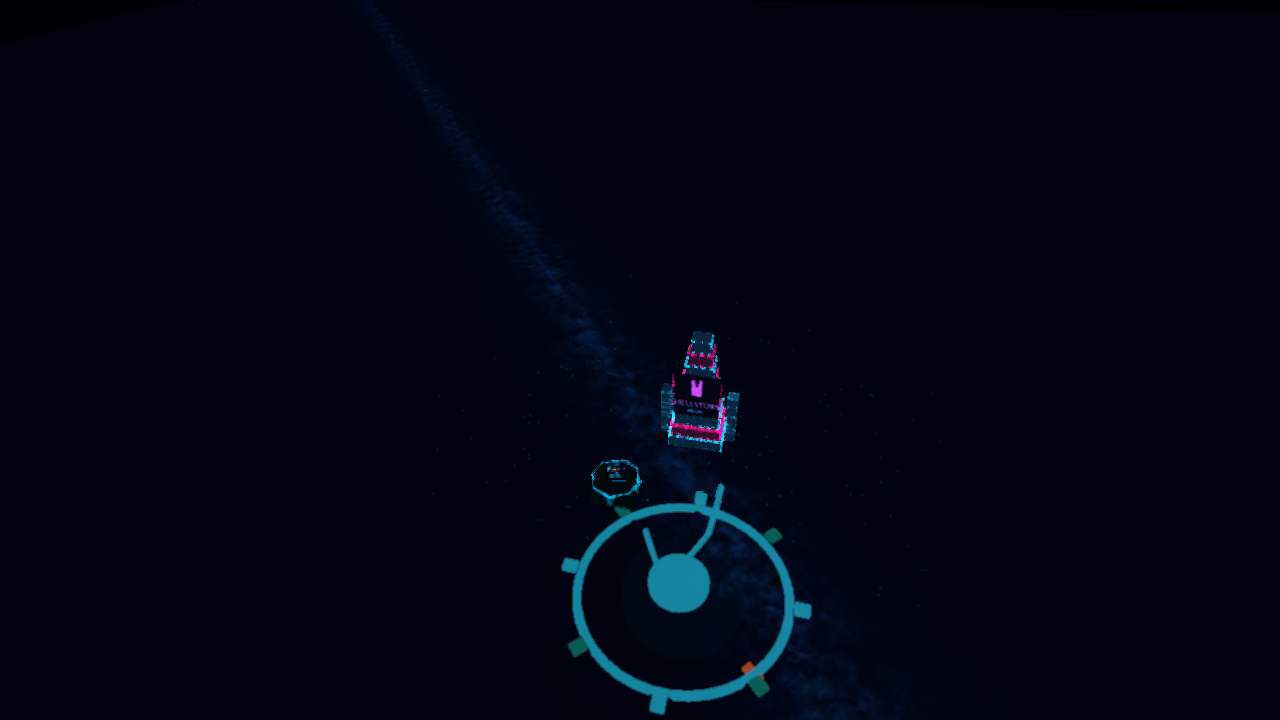
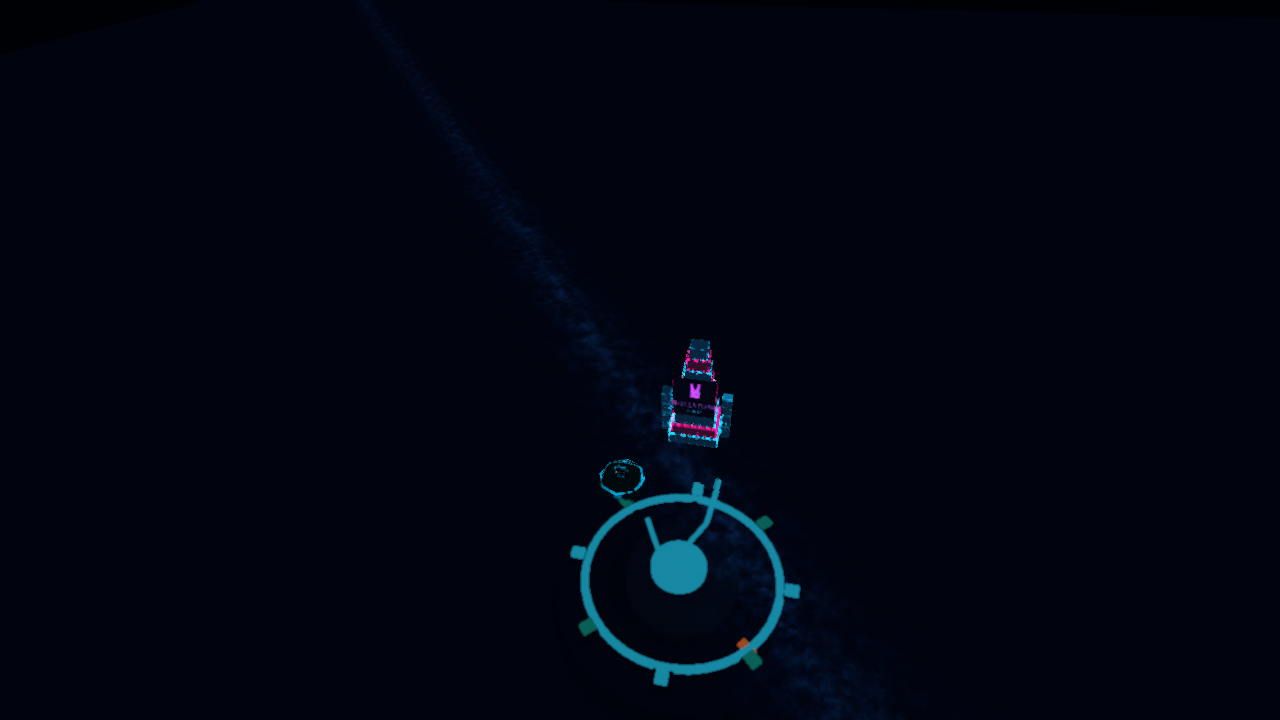
远征全息城市：入口悬停/点击反馈与 Esc 关闭时序修复
主人原话：「鼠标移动上去后，关卡的图标放大的感觉要更大一些，并且边框要有个流光出来。
鼠标挪开后就要复原。点击后要有个放大的弹性反馈。」「用 esc 关闭这个窗口，会有个延迟。
按下后要立刻播放关闭动画。」

**悬停放大**（src/ui/HologramCity3D.gd）
入口标记的世界比例与反馈强度从写死值抽成顶部常量：
MARKER_SCALE 0.09 / HOVER_SCALE **1.32**（原写死 1.09）/ PUNCH_SCALE 0.34 /
HOVER_RESPONSE 14.0 / PUNCH_DECAY 5.0 / BORDER_FLOW_SPEED 0.42 / BORDER_WIDTH 0.05。
悬停改用 _process 里按 1 − exp(−14·delta) 收敛的 _hover 数组，挪开即原路复原。
实机读数：静止 0.0902 → 悬停 0.1188，比值 **1.317**。

**边框流光**：四条独立边框线（线宽 0.032）改为顺时针四角连线并加粗到 **0.05**
（原宽度在近景下只有一两像素，流光看不出光带）；每条边按 segment / perimeter
写入 arc_span、按累计起点写入 flow_offset，新增 assets/art/ui/expedition_city/
hologram_frame.gdshader 用局部 VERTEX.z 归一化成沿线参数、按 0.42 圈/秒环绕。
常亮部分维持 ALBEDO + EMISSION = 3 × tint，与旧 _material(color, 2.0) 同当量，
**因此不悬停时外观不退化**。_line 返回值由 void 改为 MeshInstance3D
（原调用方沿用原写法不受影响）。

**点击弹性**：新增 punch_marker(index) 置满脉冲再按 5/s 衰减（峰值 = HOVER_SCALE
+ PUNCH_SCALE）。change_scene_to_file 会立刻接管画面、不留时间就只剩一帧脉冲，
故 _enter_level 改为设 _state = "entering" 与 PUNCH_HOLD = 0.18 秒倒计时，
到点由 _commit_departure() 执行原出发主体（整体搬移，出发链路一行未改）。

**Esc 延迟的根因（不是输入没送达，是进度映射被原样反向）**：
eased = smoothstep(0, 0.55, _progress) 在 _progress ∈ [0.55, 1] 被 clamp 到 1
（相机静止 **1.62s**）；deployment = clamp((_progress − 0.122727) / 0.65) 在
_progress > 0.772727 恒为 1（楼群静止 **0.82s**）。A/B 实测按下后 0.06s：
改动前 deploy 1.000000→1.000000、camera_moved 0.000000；
改动后 deploy 1.000000→0.970535、camera_moved 0.194507。
修法：request_close() 记录按下瞬间的 _progress / _city.deployment / 缓动值，
closing 改用关闭自身归一化进度 q：eased = 按下值 × q^1.35、
[…]

Changed region(s): [[0.4375, 0.6417, 0.6562, 1.0], [0.5, 0.4583, 0.5938, 0.6417]]

diff --git a/docs/v0.1/development/2026-10-09_expedition_holo_entry_feedback_and_close.md b/docs/v0.1/development/2026-10-09_expedition_holo_entry_feedback_and_close.md
@@ -1,0 +1,70 @@
+# 远征全息城市入口反馈与关闭时序
+
+日期：2026-10-09。工程版本：0.1.0。FeatureID：WORLD-ENTRY / BASE-FACILITY。
+来源：主人对远征情报室 3D 选关界面的两条调整要求。
+
+## 需求原话
+
+- 「鼠标移动上去后，关卡的图标放大的感觉要更大一些，并且边框要有个流光出来。鼠标挪开后就要复原。点击后要有个放大的弹性反馈。」
+- 「用 esc 关闭这个窗口，会有个延迟。按下后要立刻播放关闭动画。」
+
+## 一、悬停放大与边框流光
+
+标记的世界比例与反馈强度集中到 `HologramCity3D` 顶部常量：`MARKER_SCALE 0.09`、`HOVER_SCALE 1.32`（原硬编码 1.09）、`PUNCH_SCALE 0.34`、`HOVER_RESPONSE 14.0`、`PUNCH_DECAY 5.0`、`BORDER_FLOW_SPEED 0.42`、`BORDER_WIDTH 0.05`。`face_markers` 不再直接判 `selected`，改用 `_process` 里以 `lerpf(…, 1 - exp(-14·delta))` 收敛的 `_hover` 数组，挪开即原路复原。
+
+边框原来是四条各自独立的 `_line`（线宽 0.032）；改为顺时针四角连线，线宽提到 0.05 —— 原宽度在近景下只有一两像素，流光跑起来看不出光带。每条边按 `segment / perimeter` 写入 `arc_span`、按累计起点写入 `flow_offset`，四条合起来是一整圈相位连续的环流。新增 `hologram_frame.gdshader` 承担这套描边：常亮部分保持 `ALBEDO + EMISSION = 3 × tint`，与旧 `_material(color, 2.0)` 同当量，因此不悬停时外观不退化；`hover` 只抬高整体并叠加沿边跑动的拖尾亮头（`energy = 2.0 + 1.2 × hover + flow × 9.0`），光头约占周长三分之一并向后拖出长尾。
+
+`_line` 返回值由 `void` 改为 `MeshInstance3D`，其余调用方沿用原写法不受影响。
+
+## 二、点击弹性反馈
+
+新增 `HologramCity3D.punch_marker(index)`：把该入口的 `_punch` 置满，随后按 5/s 衰减，放大效果为 `PUNCH_SCALE × _punch^0.7`，形成冲上去再回弹。
+
+`change_scene_to_file` 会立刻接管画面，不留时间就只剩一帧脉冲，因此 `confirm_selection` 触发脉冲后，`_enter_level` 不再直接交接，而是设 `_state = "entering"` 与 `PUNCH_HOLD = 0.18` 秒倒计时，由 `_process` 递减到点后调用 `_commit_departure()`（原出发主体整体搬入）。出发链路本身一行未改。
+
+## 三、Esc 关闭延迟的根因与修法
+
+根因不是输入未送达（`_input` 里 `ui_cancel` 当帧就改了状态），而是 **opening 的进度映射被原样反向**：
+
+- `eased = smoothstep(0, 0.55, _progress)` 在 `_progress ∈ [0.55, 1]` 被 clamp 到 1 ⇒ 按下后**相机静止 1.62 秒**；
+- `deployment = clamp((_progress − 0.122727) / 0.65, 0, 1)` 在 `_progress > 0.772727` 恒为 1 ⇒ 按下后**楼群静止 0.82 秒**。
+
+即按下 Esc 后有 0.82 秒画面完全不动，之后也只有缓慢的镜头位移 —— 这就是"按了没反应"的来源。
+
+修法：`request_close()` 记录按下瞬间的 `_progress`、`_city.deployment` 与 `smoothstep(0, 0.55, _progress)`；closing 改用关闭自身归一化进度 `q = clamp(_progress / _close_from_progress, 0, 1)` 连续收敛 —— `eased = 按下值 × q^1.35`、`deployment = 按下值 × q^1.6`。指数 > 1 即起步快、收尾慢，按下当帧就有位移；起点恒等于按下时的真实状态，途中退出不跳变。
+
+closing 的计时与释放条件（`_progress` 按 `delta / 3.6` 递减、归零即 `queue_free`）保持不变，因此开场早期取消依旧是快的（`verify_expedition_level01_flow` 只等 0.15 秒即要求释放，该路径不受影响）。
+
+## 同步资产与文档
+
+- 新增 `assets/art/ui/expedition_city/hologram_frame.gdshader`。
+- `assets/art/ui/expedition_city/README.md`：文件表补该着色器，追加 r4 段。
+- `assets/art/ui/expedition_city/asset_manifest.json`：`visual_revision` r3 → r4，新增 `interaction_feedback` 参数块。
+- `docs/v0.1/design/远征全息城市交互设计.md`：新增「入口反馈与关闭时序（r4）」。
+
+## 验证
+
+对照实验（同一台机器、同一 Godot 4.6.3、同一场景序列）：
+
+| 探针读数（按下关闭后 0.06s） | 改动前（HEAD） | 改动后 |
+| --- | --- | --- |
+| 楼群 `deployment` | 1.000000 → **1.000000** | 1.000000 → **0.970535** |
+| 镜头位移（m） | **0.000000** | **0.194507** |
+
+左列就是"按下 Esc 没反应"的直接读数：按下后楼群与镜头都完全不动；右列证明关闭已在按下当帧起播。
+
+- 新增探针 `tests/verification/probe_holo_entry_feedback`（不依赖合成输入的派发时序），输出 `HOLOGRAM_ENTRY_FEEDBACK_OK hover=1.32 punch=0.34 borders=4 close_immediate=true`，退出 0；其中还钉住四条边 `arc_span` 合计为 1、`flow_offset` 自 0 沿边框递增、脉冲 0.4 秒内归零。
+- 实机读数：静止态标记比例 0.0902、悬停态 0.1188，比值 **1.317**（`HOVER_SCALE = 1.32`，探针容差内一致）。
+- 实机截图 `_scratch/holo_entry_rest.png` 与 `_scratch/holo_entry_hover.png`（同机位连拍，menu 的 `_selection` 从 -1 切到 0）：悬停侧边框明显加粗变亮，且左边缘与下沿出现连成一片的亮带（流光），静止侧为均匀暗描边。
+- 自带 `verify_expedition_hologram_city`：本机**改动前后同样**报 `hover input failed`（合成鼠标事件与 `await get_tree().process_frame` 的派发时序），改动前另有 7 条连锁失败（点击路由、Enter、手柄方向、手柄确认、取消未进入 closing、菜单未释放、镜头/HUD 未恢复），改动后只剩前两条。即本次改动没有引入新的失败项；该场景的输入段在本机不可作为判定依据，判定改用上面的探针与 A/B 对照。
+- 导入与运行日志无 `SCRIPT ERROR` / `ERROR` / `SHADER ERROR`，新着色器编译通过。
+
+## 已知的既有环境问题（非本次引入）
+
+- `verify_expedition_hologram_city` 的输入断言在本机不稳定：同一份代码连跑两次，失败项在 1～2 条之间浮动，且改动前的版本失败更多 —— 属合成输入派发时序问题。
+- `run_verification_suite.sh` 的导入门禁在本次运行中被主工程根目录的残留 `_godot_appdata_nar025_r2` 绊倒（`ERROR: Cannot go into subdir '_godot_appdata_nar025_r2'`），在 import 阶段即以 `VERIFICATION_IMPORT_LOG_FAILED` 退出，未进入场景段。该目录随后已不在盘上，主工程 `--import` 复跑 0 错误；本次因此改用「就绪缓存 + 隔离 APPDATA + 直接跑场景」的方式验收。残留 `_scratch/.verify_ws/shellstorm-verification.*` 工作区（每份约 5 GB）当前有 10 个未清，与本次改动无关。
+
+## 限制
+
+- 悬停倍率与流光速度按"明显可辨"取初值，未做美术终验。
+- punch 的 0.18 秒展示窗口会让出发比点击晚 0.18 秒 —— 这是让反馈可见的代价，出发链路本身未动。若要求"点击即切场景"，把 `PUNCH_HOLD` 置 0 即退化为原行为。

diff --git a/assets/art/ui/expedition_city/README.md b/assets/art/ui/expedition_city/README.md
@@ -10,6 +10,7 @@
 | hologram_block.gdshader | 实体 Box 楼块：实例化、延迟生长、波浪与扫描 |
 | hologram_wire.gdshader | 悬浮线框 Box：延迟生长与透明轮廓 |
 | hologram_field.gdshader | 背景星云，随部署渐显 |
+| hologram_frame.gdshader | 入口边框：常亮描边与悬停环流 |
 | ../../../../src/ui/HologramCity3D.gd | 确定性城市生成、径向密度、楼顶入口、分阶段装饰及升降粒子 |
 | ../../../../scenes/RogueMapSelectMenu.gd | 镜头、压暗、输入、生命周期与原有出发交接 |
 
@@ -21,3 +22,5 @@
 验收：tests/verification/verify_expedition_hologram_city.tscn；--tower 验证实际设施路径。
 截图输出位于 _scratch/hologram_city_*.png，不属于发行资产。
 表现修订 r3：主体楼群横向约 3.1m，外围追加 42 座不同高度建筑。城市起始由 1.54 秒前移至 0.54 秒，保持原展开速度；继承玩法环境至 1.936 秒后渐变，3.168 秒完成压暗。真实出发可追加 --tower --enter-01 或 --tower --enter-99，验证到达场景而非仅记录按钮 ID。
+
+表现修订 r4：入口标记悬停倍率 1.09 → 1.32，并以 14/s 的收敛率平滑过渡，挪开即复原；四条边框加粗至 0.05 并改用 hologram_frame.gdshader，按各自周长占比分配流光相位、以 0.42 圈/秒绕框环流，光头约占周长三分之一并向后拖出长尾。点击入口时触发 0.34 倍脉冲，随后按 5/s 衰减回弹，并保留 0.18 秒展示窗口再交接出发。Esc 关闭改为从按下瞬间起播（关闭曲线回落指数 1.35 / 1.6），消除原 opening 映射反向时相机 1.62 秒、楼群 0.82 秒的静止段。
